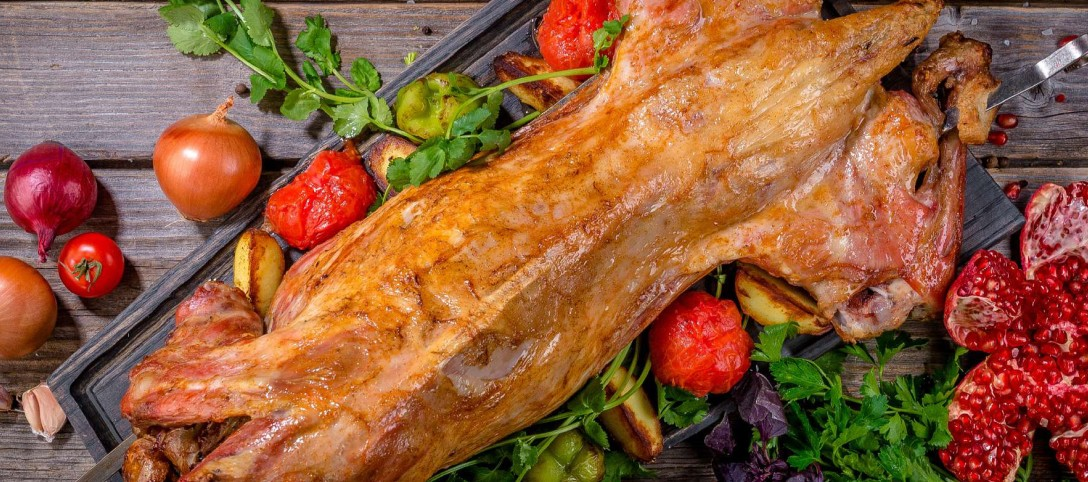
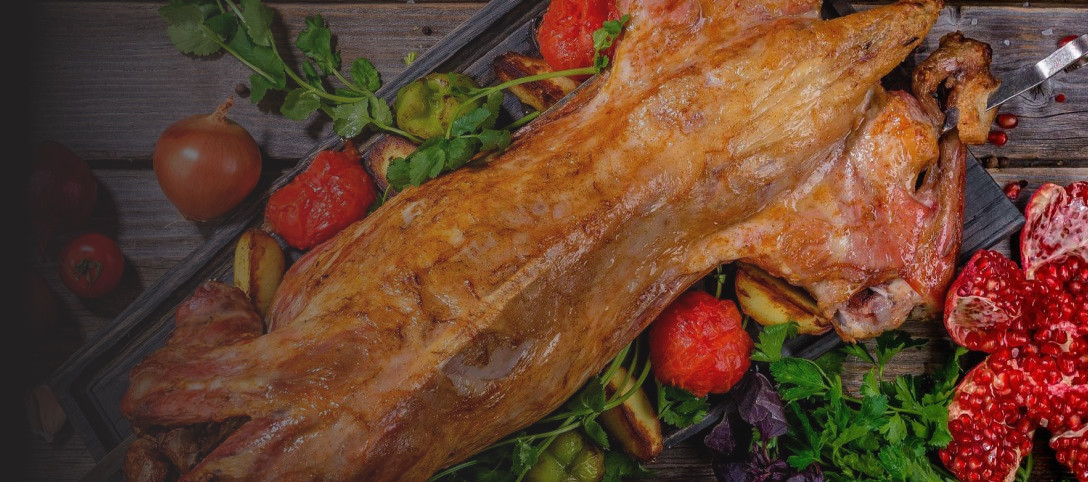
prime block

diff --git a/src/sass/index.scss b/src/sass/index.scss
@@ -14,7 +14,7 @@ body {
     margin: 0;
     background: linear-gradient(360deg, #211F20 0%, #44403F 100%);
     background-repeat: no-repeat;
-    height: 100vh;
+
 
     font-family: 'Gilroy';
     font-style: normal;
@@ -205,63 +205,74 @@ a {
 }
 
 .header-prime {
-    background: #222021;
-    display: flex;
-    justify-content: flex-end;
-
-
-    position: relative;
+    background: #222021 url("../assets/images/menu.jpg") no-repeat right;
 
     height: 480px;
+    display: flex;
+    align-items: center;
 
-    .fade {
-        display: inline-flex;
-        position: absolute;
-        z-index: 0;
+    h2 {
 
+        color: white;
 
-        &:after {
-            content: "";
-            display: block;
-            width: 100%;
-            height: 100%;
-            position: absolute;
+        margin: 0;
+        margin-left: 20px;
+        margin-bottom: 60px;
 
-            background: transparent;
-            background-image: linear-gradient(to right, #222021 5%,
-                    rgba(68, 64, 63, 0.2) 80%);
+        font-family: 'Zing';
 
-        }
+        font-style: italic;
+        font-weight: 500;
+        font-size: 67px;
+        line-height: 109.2%;
+
+        text-transform: uppercase;
+
+        transform: rotate(-9deg);
+
+        text-shadow:
+            -8px 4px 0px #222021,
+            -8px 4px 3px rgba(255, 255, 255, 1);
     }
 
+
     .header-prime-text {
-        z-index: 1;
-        color: white;
         display: flex;
-        align-items: center;
+        flex-direction: column;
+        justify-content: center;
+        align-items: flex-start;
 
-        h2 {
-            
-            margin: 0;
-            margin-left: 40px;
+        .header-prime-text-back {
 
-            font-family: 'Zing';
+            border: 1px solid white;
+            padding: 0px 8px;
+            margin-left: 120px;
+            transform: skewX(-20deg) rotate(-9deg);
 
-            font-style: italic;
-            font-weight: 500;
-            font-size: 67px;
-            line-height: 109.2%;
-            
-            
-            text-transform: uppercase;
+            div {
+                background-color: #618967;
+                padding: 10px 25px;
+                position: relative;
+                top: -15px;
 
-            transform: rotate(-9deg);
+            }
 
-            text-shadow: 
-            -8px 4px 0px #222021,
-             -8px 4px 3px rgba(255, 255, 255, 1);
+            p {
+                display: inline-flex;
+                color: white;
+
+                margin: 0;
+                
+                font-family: 'Zing';
+
+                font-weight: 500;
+                font-size: 37px;
+                line-height: 110%;
+
+                transform: skewX(15deg);
+
+                text-transform: uppercase;
+            }
         }
-
-        
     }
 }

diff --git a/src/index.html b/src/index.html
@@ -41,12 +41,15 @@
 
 
         <div class="header-prime">
-            <div class="fade">
-                <img src="assets/images/menu.jpg" alt="Grilled chiken">
-            </div>
-
-            <div class="container header-prime-text">
+            <div class="header-prime-text container">
                 <h2>Доставка вкуснейших<br>блюд за 20 минут!</h2>
+
+                <div class="header-prime-text-back">
+                    <div>
+                        <p>Еще не пробовал?</p>
+                    </div>
+                </div>
+                
             </div>
         </div>
 
